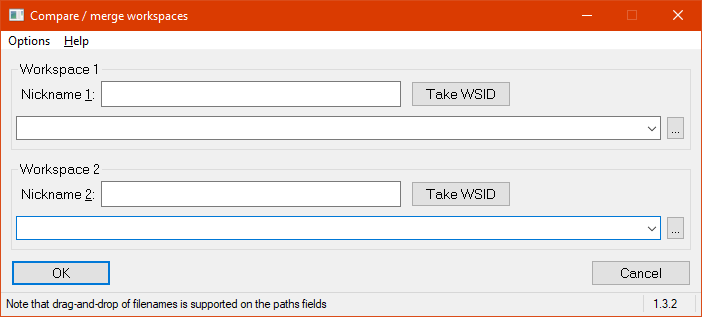
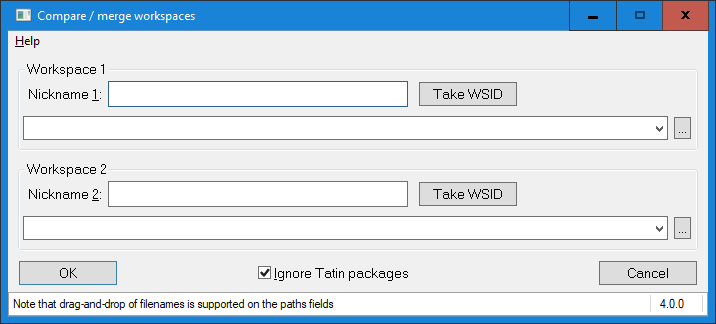
_tatin can be ignored now

Changed region(s): [[0.0, 0.0, 1.0, 1.0]]

diff --git a/README.md b/README.md
@@ -1,5 +1,7 @@
 # CompareGUI
 
+## Overview
+
 `CompareGUI` is a comparison utility designed to compare Dyalog workspaces; This a Windows-only tool.
 
 CompareGUI is a workspace that contains the code needed by the 
@@ -8,22 +10,21 @@ CompareGUI is a workspace that contains the code needed by the
 ]CompareWorkpaces
 ``` 
 
-user command. It requires an external comparison utility. If the user command `]CompareFiles` 
+user command. It requires an external comparison utility. 
+
+If the user command `]CompareFiles` is available then it is used.
 
 It offers a GUI with a list of all objects only contained in the first or only contained in the second workspace, and a list of all objects that exist in both workspaces but are different. Those can be compared from the list one-by-one.
 
-![Compare workspaces](CompareWorkspaces.png "Compare workspaces")
-
-Note that the GUI supports drag-and-drop: drag a workspace onto on of the path fields for that.
+You can also ask for a report on all differences in a single document via the "Report > Diffs" menu command.
 
 
-## Installation 
+## Installation
 
-This is a Dyalog user command: download the ZIP file and move its content to the folder
+With version 4.0.0 `CompareGUI` became a Tatin package. In order to install it as a user command execute this:
 
 ```
-C:\Users\{⎕AN}\Documents\MyUCMDs\
+]Tatin.InstallPackages [tatin]CompareGUI [MyUCMDs]
 ```
 
-Start Dyalog 18.0 or later: there is now a user command `]CompareWorkspaces` available.
-
+**Note:** if you have installed an earlier version remove it first.
